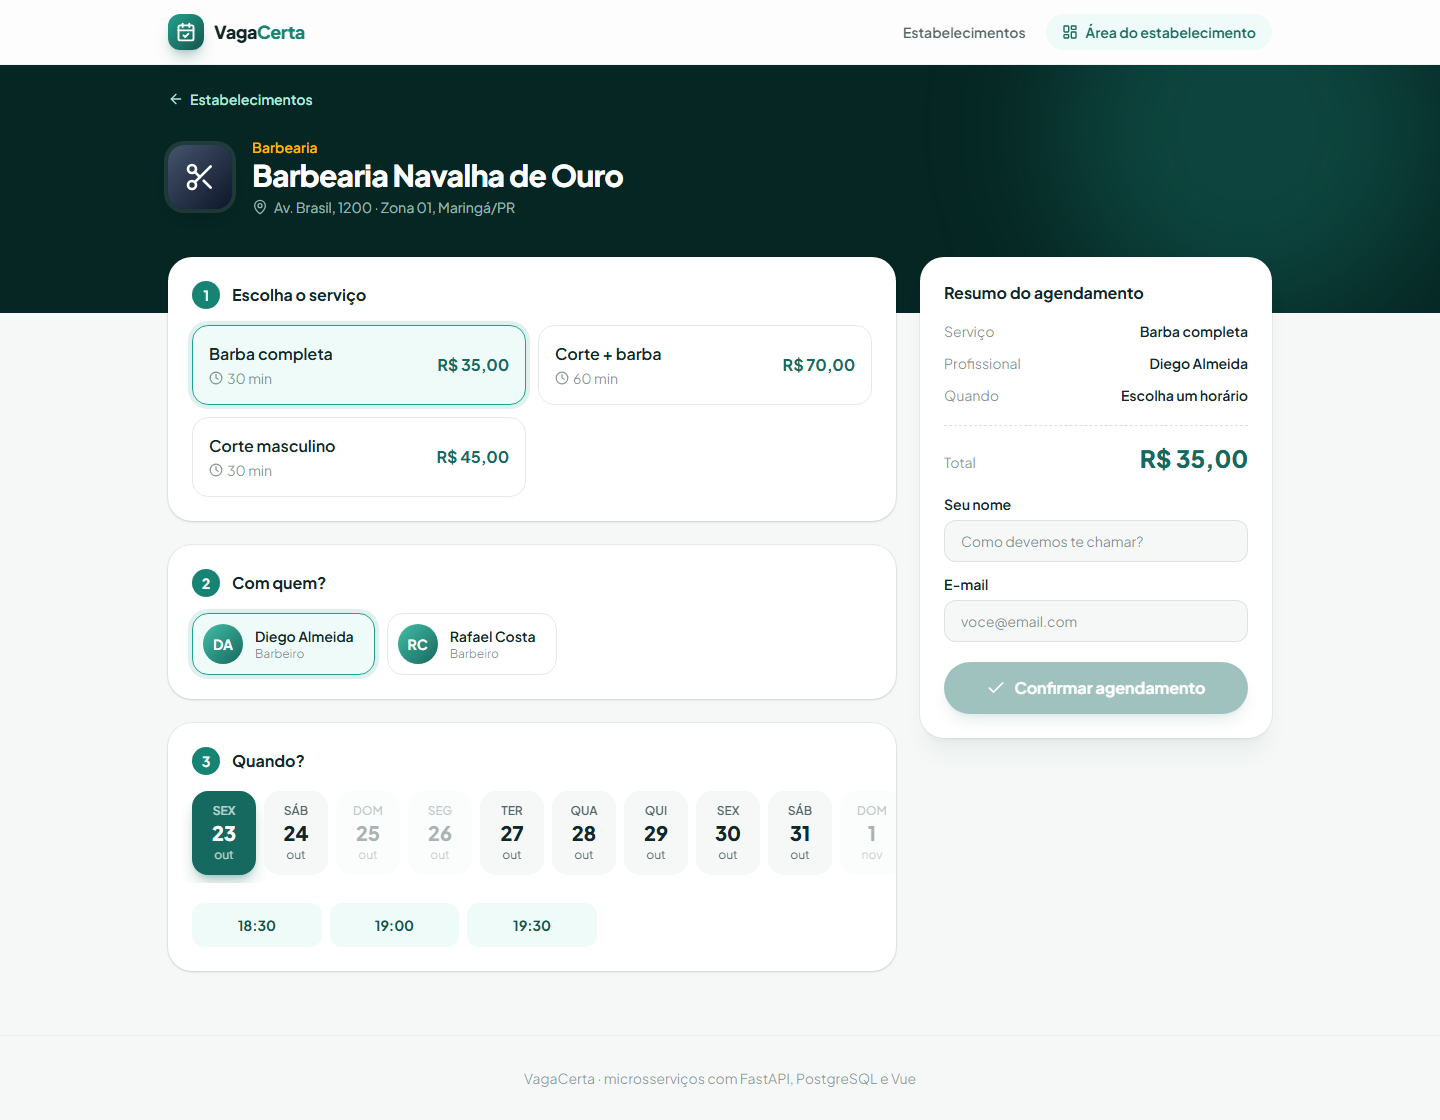
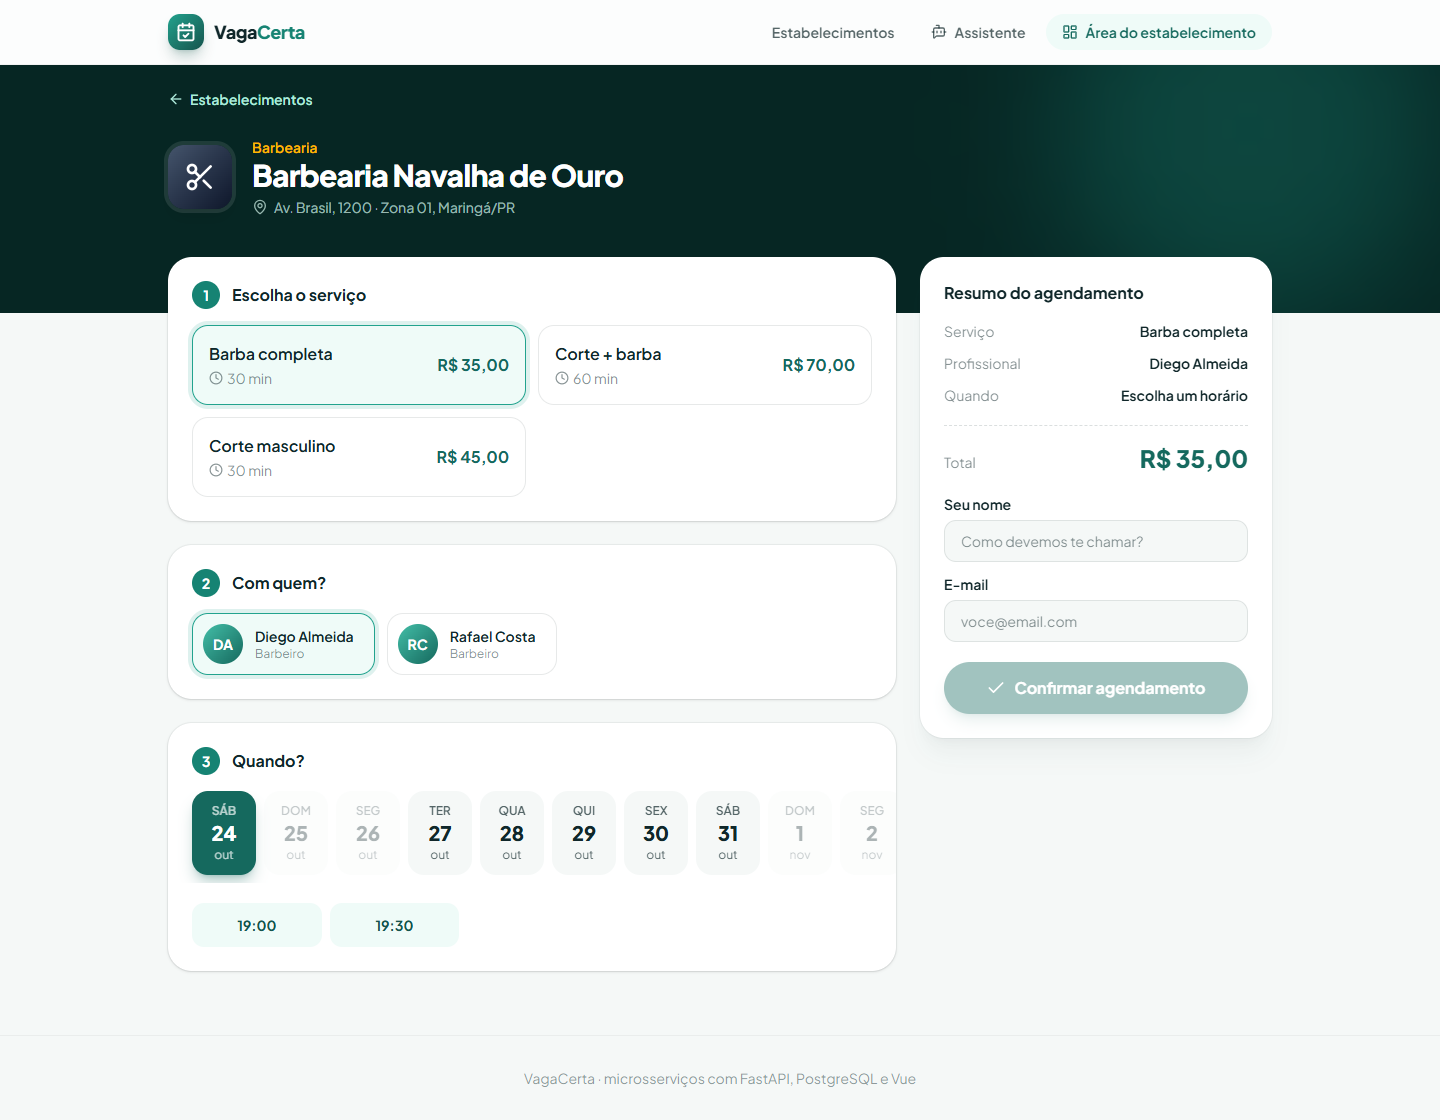
docs: refresh the screenshots and note how the cluster reaches Ollama
The home, business, booking, offer and dashboard screenshots now show
the assistant link in the header. The README gets the current test count
and explains that the assistant in kind reaches Ollama on the host
through host.docker.internal, with the override for Docker on Linux.

diff --git a/README.md b/README.md
@@ -377,6 +377,10 @@ kubectl get pods
 Rodar o script de novo atualiza o cluster com as imagens novas. Para remover tudo:
 `kind delete cluster --name vagacerta`.
 
+No cluster, o assistente usa o Ollama da máquina em `http://host.docker.internal:11434`, endereço que
+funciona no Docker Desktop. No Docker do Linux, troque o endereço com
+`--set workloads.assistant.env.OLLAMA_URL=http://<ip-do-host>:11434`.
+
 ### Localmente, sem containers para os serviços
 
 Suba só a infraestrutura com Docker e rode cada processo num terminal:
@@ -657,7 +661,7 @@ Conecte em `http://localhost:8080/mcp` com o transporte Streamable HTTP.
 ## Testes
 
 ```bash
-uv run pytest            # 90 testes (os de integração sobem containers com Docker)
+uv run pytest            # 91 testes (os de integração sobem containers com Docker)
 uv run lint-imports      # regras de arquitetura
 uv run mypy libs/auth/src services/*/src
 uv run ruff check && uv run ruff format --check
